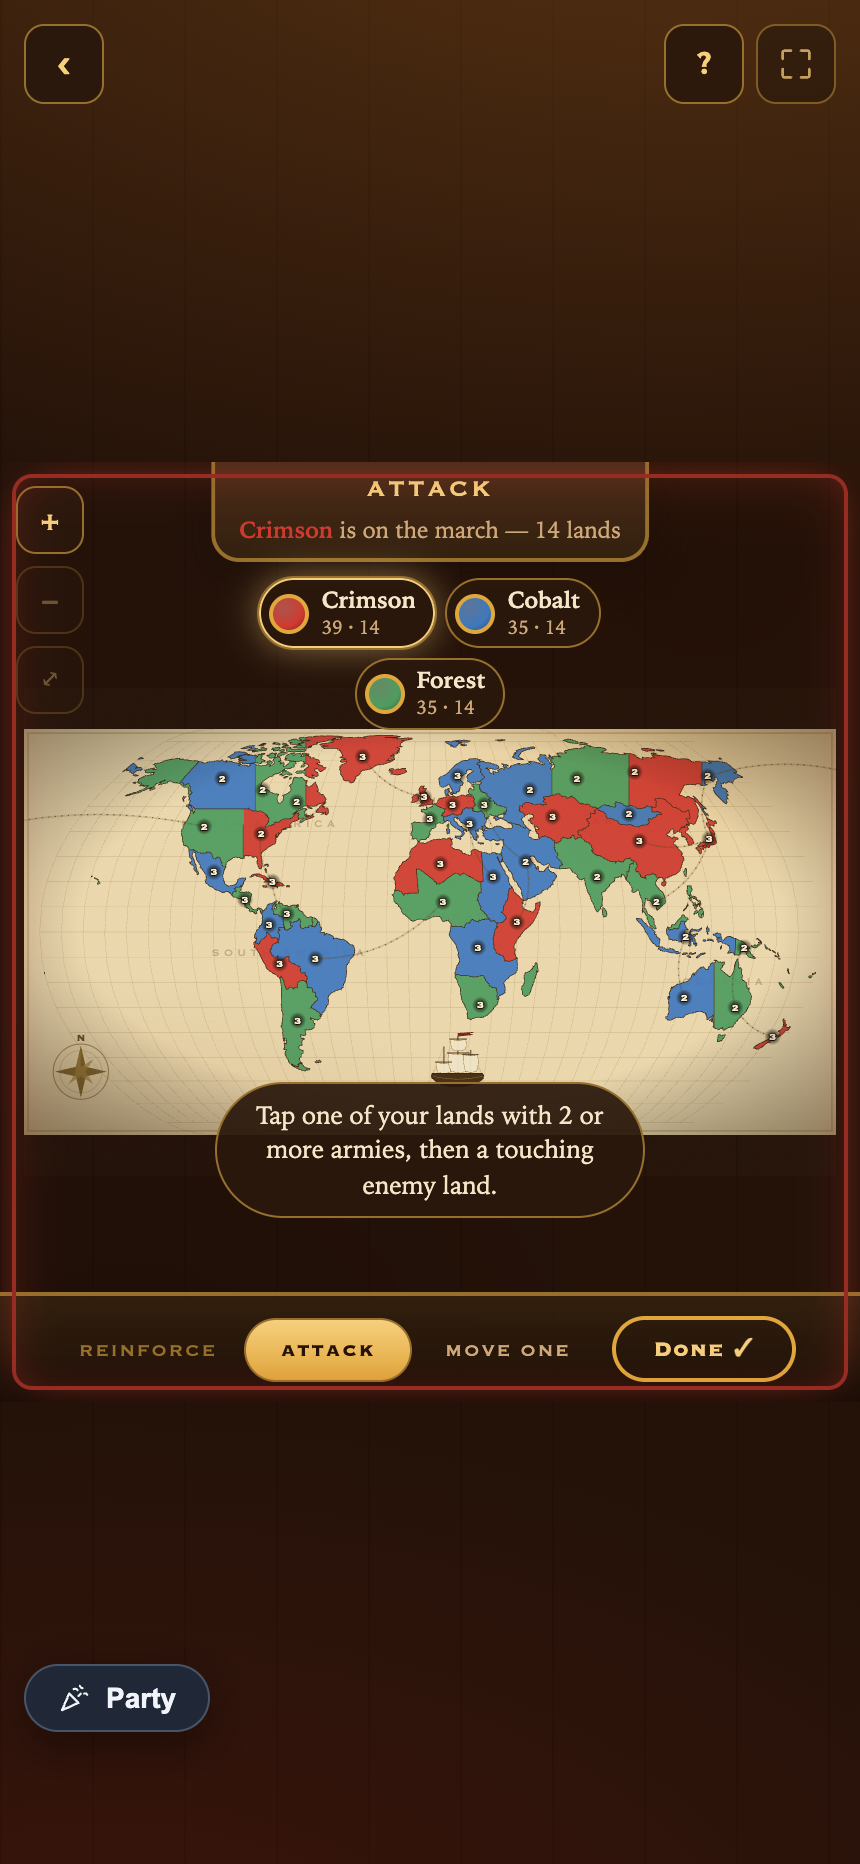
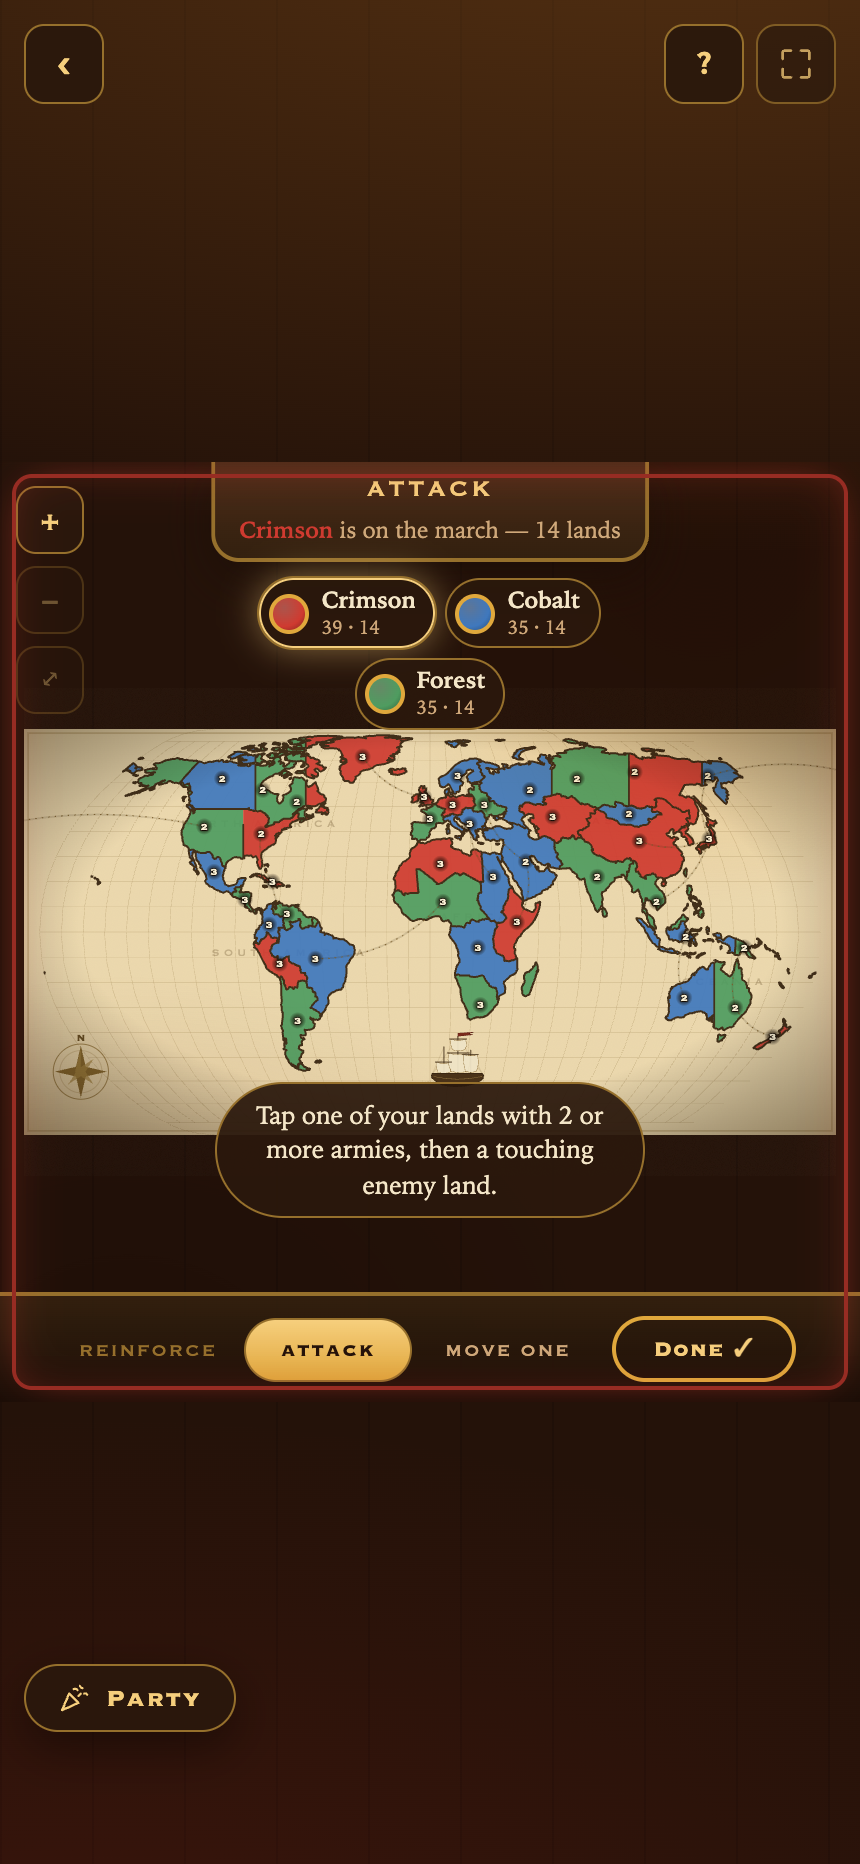
fix(risk): real clicks never reached the map; smoother borders
The pointer-capture bug is the important one. useMapZoom captured the
pointer on pointerdown, which retargets the whole gesture to the <svg> —
so the browser fired the click on the svg and the territory's own
handler never ran. Tapping a country did nothing. Capture now waits
until movement passes the drag threshold, when we know it's a pan rather
than a tap, which is the only time it was needed.

Every test missed this because every test faked it: the screenshot
harness and the unit tests both drive the board with dispatchEvent, and
a synthetic click bypasses pointer capture entirely. jsdom has no
capture, no layout and no selection model, so nothing there could have
caught it either.

Hence scripts/risk-drag-check.mjs (`npm run risk:drag`) — a real engine,
real pointer input, seeded so a failure reproduces. It asserts three
things: a drag selects no text, a drag never picks a territory, and a
plain click still does. The third is what caught the bug, on its first
run.

Borders: round joins and caps, since coastlines traced from real geodata
hit angles sharp enough for a mitre to throw a spike, and adjacent
territories each stroke their own edge so those spikes landed on top of
each other as a ragged seam. Strokes are non-scaling now too — at 5x
zoom a scaled stroke was five pixels wide and swallowing the small
territories.

Selection: user-select: none on the stage. Dragging across the board was
highlighting the engraved continent names — you'd finish a pan with
[…]

diff --git a/src/games/risk/styles/risk.css b/src/games/risk/styles/risk.css
@@ -115,13 +115,26 @@
   letter-spacing: 0.34em; text-transform: uppercase; text-anchor: middle; pointer-events: none;
 }
 .risk-terr {
-  stroke: #43301a; stroke-width: 0.9; cursor: pointer; fill-opacity: 0.92;
+  stroke: #43301a; cursor: pointer; fill-opacity: 0.92;
   transition: filter 120ms;
+  /* Round joins, because the coastlines are traced from real geodata and hit
+     plenty of angles sharp enough for a mitre to throw a spike. Adjacent
+     territories each stroke their own edge, so those spikes landed on top of
+     one another and read as a ragged seam. */
+  stroke-linejoin: round;
+  stroke-linecap: round;
+  /* non-scaling-stroke keeps the border one screen pixel at every zoom level.
+     Without it a 5x zoom multiplies the stroke by five and the borders swallow
+     the small territories whole. */
+  vector-effect: non-scaling-stroke;
+  stroke-width: 1;
+  shape-rendering: geometricPrecision;
 }
 .risk-terr:hover { filter: brightness(1.12); }
-.risk-terr.target { stroke: #f2e8ca !important; stroke-width: 1.3; filter: brightness(1.1); }
+/* These widths are screen pixels too, since .risk-terr sets non-scaling-stroke. */
+.risk-terr.target { stroke: #f2e8ca !important; stroke-width: 1.6; filter: brightness(1.1); }
 .risk-terr.sel {
-  stroke: var(--brass-hi) !important; stroke-width: 2;
+  stroke: var(--brass-hi) !important; stroke-width: 2.4;
   filter: brightness(1.2) drop-shadow(0 0 3px rgba(231, 207, 149, 0.8));
 }
 /* Territories are keyboard-operable buttons — give tabbing a clear brass ring. */
@@ -135,7 +148,11 @@
 
 .risk-badge { cursor: pointer; }
 .risk-badge > text { pointer-events: none; }
-.risk-divider line { stroke: #43301a; stroke-width: 0.8; pointer-events: none; }
+.risk-divider line {
+  stroke: #43301a; pointer-events: none;
+  vector-effect: non-scaling-stroke; stroke-width: 0.9; stroke-linecap: round;
+  shape-rendering: geometricPrecision;
+}
 
 /* Sea routes — dotted brass shipping lines across the water. */
 .risk-searoutes { pointer-events: none; }
@@ -189,6 +206,15 @@
   min-height: 420px;
   margin: 0 -16px;
   overflow: hidden;
+  /* Nothing on the board is prose. Without this a drag across the map starts a
+     text selection — usually catching the engraved continent names — and you
+     end up highlighting "SOUTH AMERICA" instead of panning. pointer-events on
+     the labels doesn't help: selection is driven by the drag, not by hits.
+     -webkit-touch-callout stops iOS raising its copy/share sheet on a long
+     press, which is otherwise easy to trigger while thinking about a move. */
+  user-select: none;
+  -webkit-user-select: none;
+  -webkit-touch-callout: none;
 }
 
 /* Campaign mode: the window IS the board. The shared .app gutters and the
@@ -211,6 +237,20 @@ body:has(.risk-bare) .party-root {
   bottom: calc(66px + env(safe-area-inset-bottom));
   transform: none;
 }
+/* And dressed for the war room rather than the sci-fi console. The values are
+   literals, not the theme's custom properties: the pill lives outside
+   .risk-theme, so --brass and friends aren't in scope for it. */
+body:has(.risk-bare) .party-pill {
+  background: rgba(42, 24, 12, 0.93);
+  border: 1.5px solid #96702c;
+  color: #f6cf7d;
+  font-family: Copperplate, 'Copperplate Gothic Bold', 'Hoefler Text', Palatino, Georgia, serif;
+  font-weight: 700;
+  letter-spacing: 0.06em;
+  border-radius: 999px;
+}
+body:has(.risk-bare) .party-pill:hover { border-color: #e0a83c; }
+body:has(.risk-bare) .party-pill:focus-visible { outline: 2px solid #f6cf7d; outline-offset: 2px; }
 
 /* The three controls the title row used to carry, as icons over the map. */
 .risk-icon {

diff --git a/src/games/risk/components/useMapZoom.ts b/src/games/risk/components/useMapZoom.ts
@@ -160,13 +160,12 @@ export function useMapZoom(width: number, height: number, opts?: { maxScale?: nu
       const pos = { clientX: e.clientX, clientY: e.clientY };
       bk.origin.set(e.pointerId, pos);
       bk.last.set(e.pointerId, pos);
-      if (e.currentTarget.setPointerCapture) {
-        try {
-          e.currentTarget.setPointerCapture(e.pointerId);
-        } catch {
-          // Some jsdom/browser combinations reject capture on synthetic pointers.
-        }
-      }
+      // NB: capture is deliberately NOT taken here. Capturing on pointerdown
+      // retargets the whole gesture to the <svg>, so the browser fires the
+      // click on the svg instead of on the territory under the finger and the
+      // board stops responding to taps entirely. Capture is taken in the move
+      // handler, once movement has passed the drag threshold and we know this
+      // is a pan rather than a tap.
       if (bk.last.size === 2) {
         const pts = [...bk.last.values()];
         bk.pinchStartDist = Math.hypot(pts[0].clientX - pts[1].clientX, pts[0].clientY - pts[1].clientY);
@@ -204,6 +203,15 @@ export function useMapZoom(width: number, height: number, opts?: { maxScale?: nu
         if (Math.hypot(dxTotal, dyTotal) <= DRAG_THRESHOLD_PX) return;
         bk.dragging = true;
         setPanning(true);
+        // Now that this is definitely a pan, take the pointer so it keeps
+        // reporting if the finger leaves the map mid-drag.
+        if (e.currentTarget.setPointerCapture) {
+          try {
+            e.currentTarget.setPointerCapture(e.pointerId);
+          } catch {
+            // Some jsdom/browser combinations reject capture on synthetic pointers.
+          }
+        }
       }
 
       // Delta since the *previous* move, not the pointerdown — movementX/Y

diff --git a/NEXT_STEP.md b/NEXT_STEP.md
@@ -11,6 +11,48 @@ Sorted by likely value. Nothing here blocks anything else.
 
 ### Code
 
+- **Cross-game player names, asked for once.** Requested 2026-08-10. Today
+  every game invents its own name entry: Risk has six text inputs on its setup
+  screen, Ship Battle asks again, chess again. The family types the same five
+  names every single time.
+
+  The shape asked for:
+
+  1. Names become an **app-level concern**, not a per-game one. Opening a game
+     raises a modal asking who's playing — player 1 first, then player 2 if the
+     game has one — rather than each game rolling its own form.
+  2. The answer is **remembered** so it's a default, not a question. Player 1 in
+     particular should effectively be set once per device.
+  3. Keep a **roster of the last ten players** and offer it for autofill, so the
+     second and third child are a tap rather than a typing exercise.
+  4. Make picking from that roster feel good — the ask was for something like a
+     **live search**: type two letters, the matching names filter down, Enter
+     takes the top one. Being fast for a seven-year-old is the whole point.
+
+  Decisions worth making before writing code, none of them settled:
+
+  - **Where it lives.** `src/shared/` — shared never imports a game, so this
+    has to be a shared provider (`PlayerProvider`?) that games read from, with
+    the registry saying how many players a game wants. `PartyContext` already
+    holds a `myName` and is the closest existing thing; check whether this
+    should extend it rather than sit beside it.
+  - **Storage.** localStorage, keyed and versioned like
+    `risk-help-seen-v1` / `riskPersistence`. The user said "local session" —
+    worth confirming whether they mean it should survive a browser restart
+    (localStorage) or not (sessionStorage). Assume localStorage; that's what
+    "so I don't retype it" implies.
+  - **Per-game overrides.** Risk names its generals Crimson/Cobalt/Forest by
+    default and those are colour names, not people. Decide whether the roster
+    replaces them or seeds them.
+  - **Online play.** Ship Battle and chess send a name over the wire
+    (`PartyMsg` length-bounds it). Any change here has to keep that path intact.
+  - **Not a login.** No accounts, no server, no personal data leaving the
+    device — the arcade is offline-first and should stay that way.
+
+  Scope: this touches shared state, storage, at least three games' setup
+  screens, and the registry. It is a session's work on its own, which is why
+  it's written down rather than bolted onto the Risk styling branch.
+
 - **Ship Battle visual glow-up — image-asset ships.** The whole plan is in
   "The Ship Battle glow-up" below. This is the active piece of work; assets are
   being generated now.
